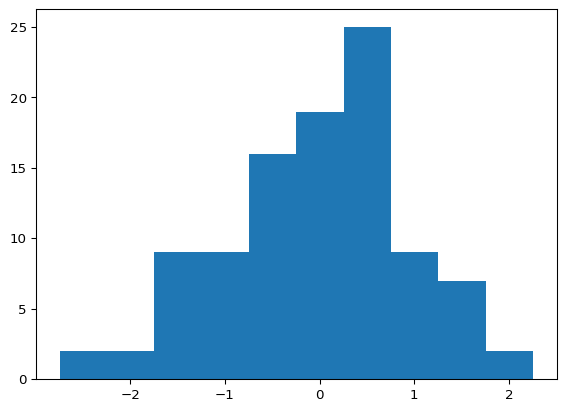
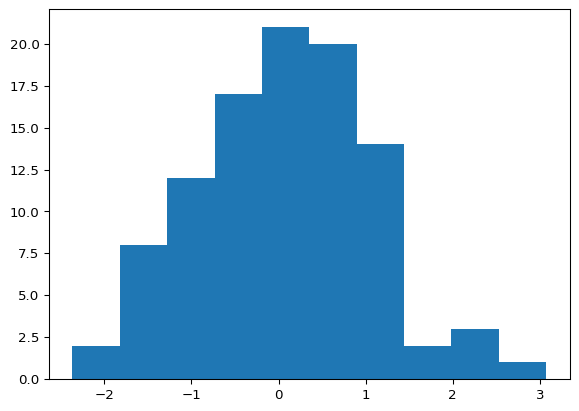
Built site for gh-pages

diff --git a/units/unit1.html b/units/unit1.html
@@ -193,7 +193,7 @@ $$
 <p>This is an example of using qmd as the source document.</p>
 <section id="evaluated-python-code-chunk-with-a-plot" class="level2">
 <h2 class="anchored" data-anchor-id="evaluated-python-code-chunk-with-a-plot">Evaluated Python code chunk, with a plot</h2>
-<div id="2ab37523" class="cell" data-execution_count="1">
+<div id="34c4c4cf" class="cell" data-execution_count="1">
 <details open="" class="code-fold">
 <summary>Code</summary>
 <div class="sourceCode cell-code" id="cb1"><pre class="sourceCode python code-with-copy"><code class="sourceCode python"><span id="cb1-1"><a href="#cb1-1" aria-hidden="true" tabindex="-1"></a><span class="im">import</span> numpy <span class="im">as</span> np</span>
@@ -211,7 +211,7 @@ $$
 </div>
 </div>
 <div class="cell-output cell-output-display" data-execution_count="1">
-<pre><code>np.float64(-0.0014513575668923817)</code></pre>
+<pre><code>np.float64(0.0902868244663172)</code></pre>
 </div>
 </div>
 </section>
@@ -273,7 +273,7 @@ Tip with Title
 </div>
 <div id="tabset-1-2" class="tab-pane" role="tabpanel" aria-labelledby="tabset-1-2-tab">
 <p>This code is executed.</p>
-<div id="84c795fd" class="cell" data-execution_count="2">
+<div id="6e25d452" class="cell" data-execution_count="2">
 <details open="" class="code-fold">
 <summary>Code</summary>
 <div class="sourceCode cell-code" id="cb4"><pre class="sourceCode python code-with-copy"><code class="sourceCode python"><span id="cb4-1"><a href="#cb4-1" aria-hidden="true" tabindex="-1"></a><span class="kw">def</span> fizz_buzz(num):</span>

diff --git a/homework-solutions.html b/homework-solutions.html
@@ -242,7 +242,7 @@ ul.task-list li input[type="checkbox"] {
 </ul>
 <p>Students learn to implement and interpret these models, assess assumptions, and address common pitfalls (e.g., confounding, omitted variables, high-leverage points).</p>
 <blockquote class="blockquote">
-<p>Solutions written by Ajay Sharma to theoretical exercises assigned throughout the semester.</p>
+<p>Solutions written by Ajay Sharma to <em>theoretical exercises</em> assigned throughout the semester. <em>Computational exercises</em> have <em>not</em> been shown.</p>
 </blockquote>
 <ul>
 <li><a href="homework/STAT_151A_Homework_1_Solutions.pdf">Homework&nbsp;1</a><br>
@@ -268,7 +268,7 @@ ul.task-list li input[type="checkbox"] {
 <li><strong>Advanced topics:</strong> Statistical learning and optimization theory; bagging and boosting; tree-based models; neural networks; Bayesian modeling; online learning and bandit problems..</li>
 </ul>
 <blockquote class="blockquote">
-<p>Solutions written by Ajay Sharma to theoretical exercises assigned throughout the semester.</p>
+<p>Solutions written by Ajay Sharma to <em>theoretical exercises</em> assigned throughout the semester. <em>Computational exercises</em> have <em>not</em> been shown.</p>
 </blockquote>
 <ul>
 <li><a href="homework/STAT_154_HW_1_Solutions.pdf">Homework&nbsp;1</a></li>

diff --git a/units/unit3.html b/units/unit3.html
@@ -190,7 +190,7 @@ $$
 <p>This is an example of using qmd as the source document with pdf as one target. I’ve taken out the qmd stuff that doesn’t seem to render to pdf.</p>
 <section id="evaluated-python-code-chunk-with-a-plot" class="level2">
 <h2 class="anchored" data-anchor-id="evaluated-python-code-chunk-with-a-plot">Evaluated Python code chunk, with a plot</h2>
-<div id="adbe2737" class="cell" data-execution_count="1">
+<div id="50fe89a7" class="cell" data-execution_count="1">
 <details open="" class="code-fold">
 <summary>Code</summary>
 <div class="sourceCode cell-code" id="cb1"><pre class="sourceCode python code-with-copy"><code class="sourceCode python"><span id="cb1-1"><a href="#cb1-1" aria-hidden="true" tabindex="-1"></a><span class="im">import</span> numpy <span class="im">as</span> np</span>
@@ -208,7 +208,7 @@ $$
 </div>
 </div>
 <div class="cell-output cell-output-display" data-execution_count="1">
-<pre><code>np.float64(-0.027266929217889885)</code></pre>
+<pre><code>np.float64(-0.029517468630151023)</code></pre>
 </div>
 </div>
 </section>
